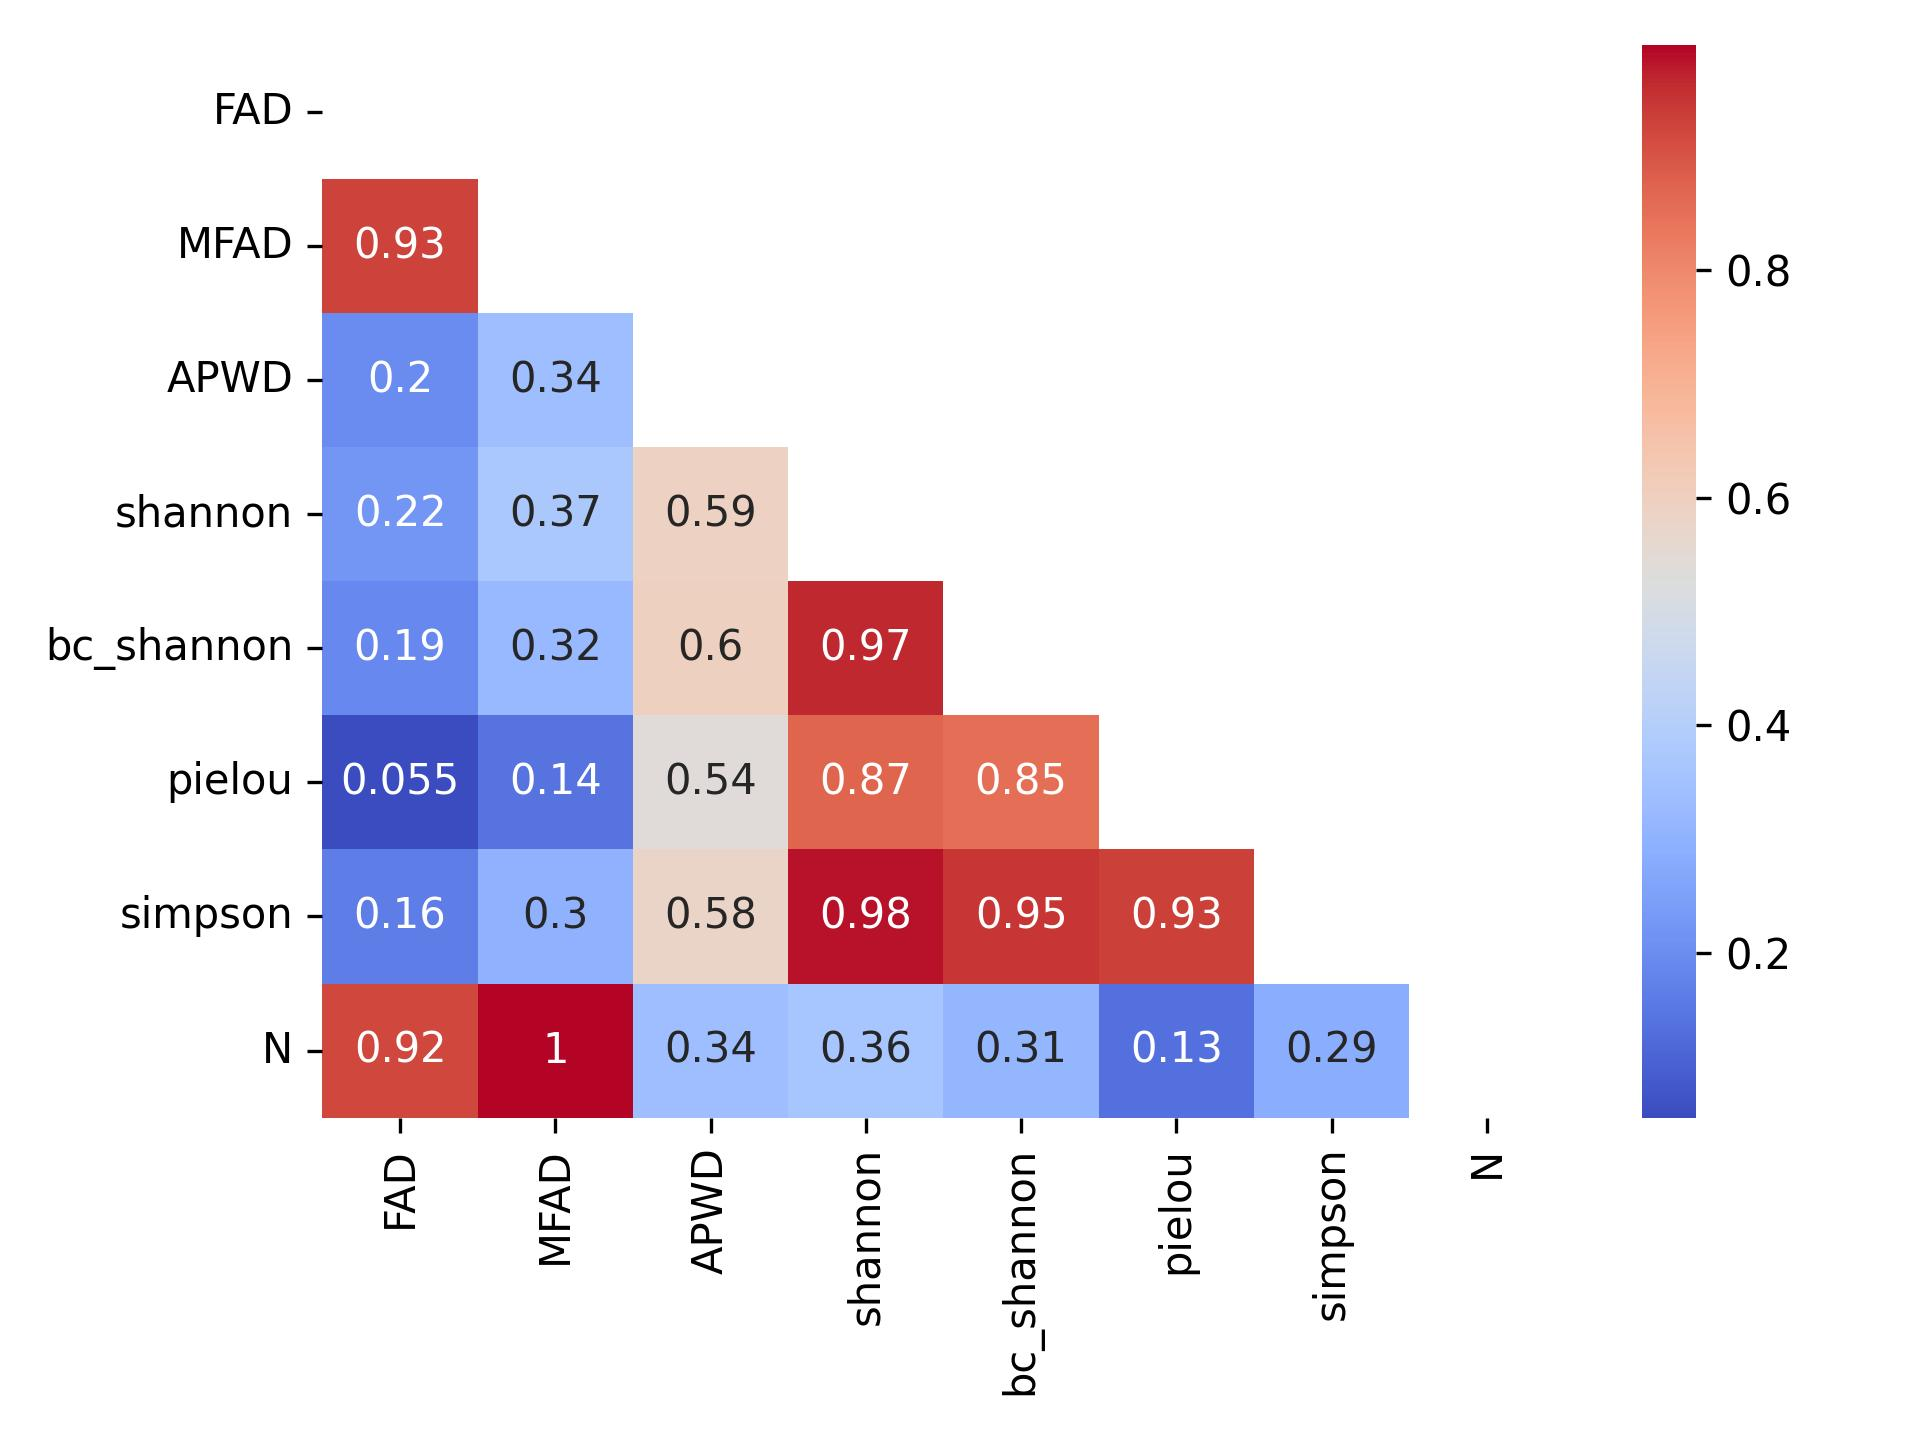
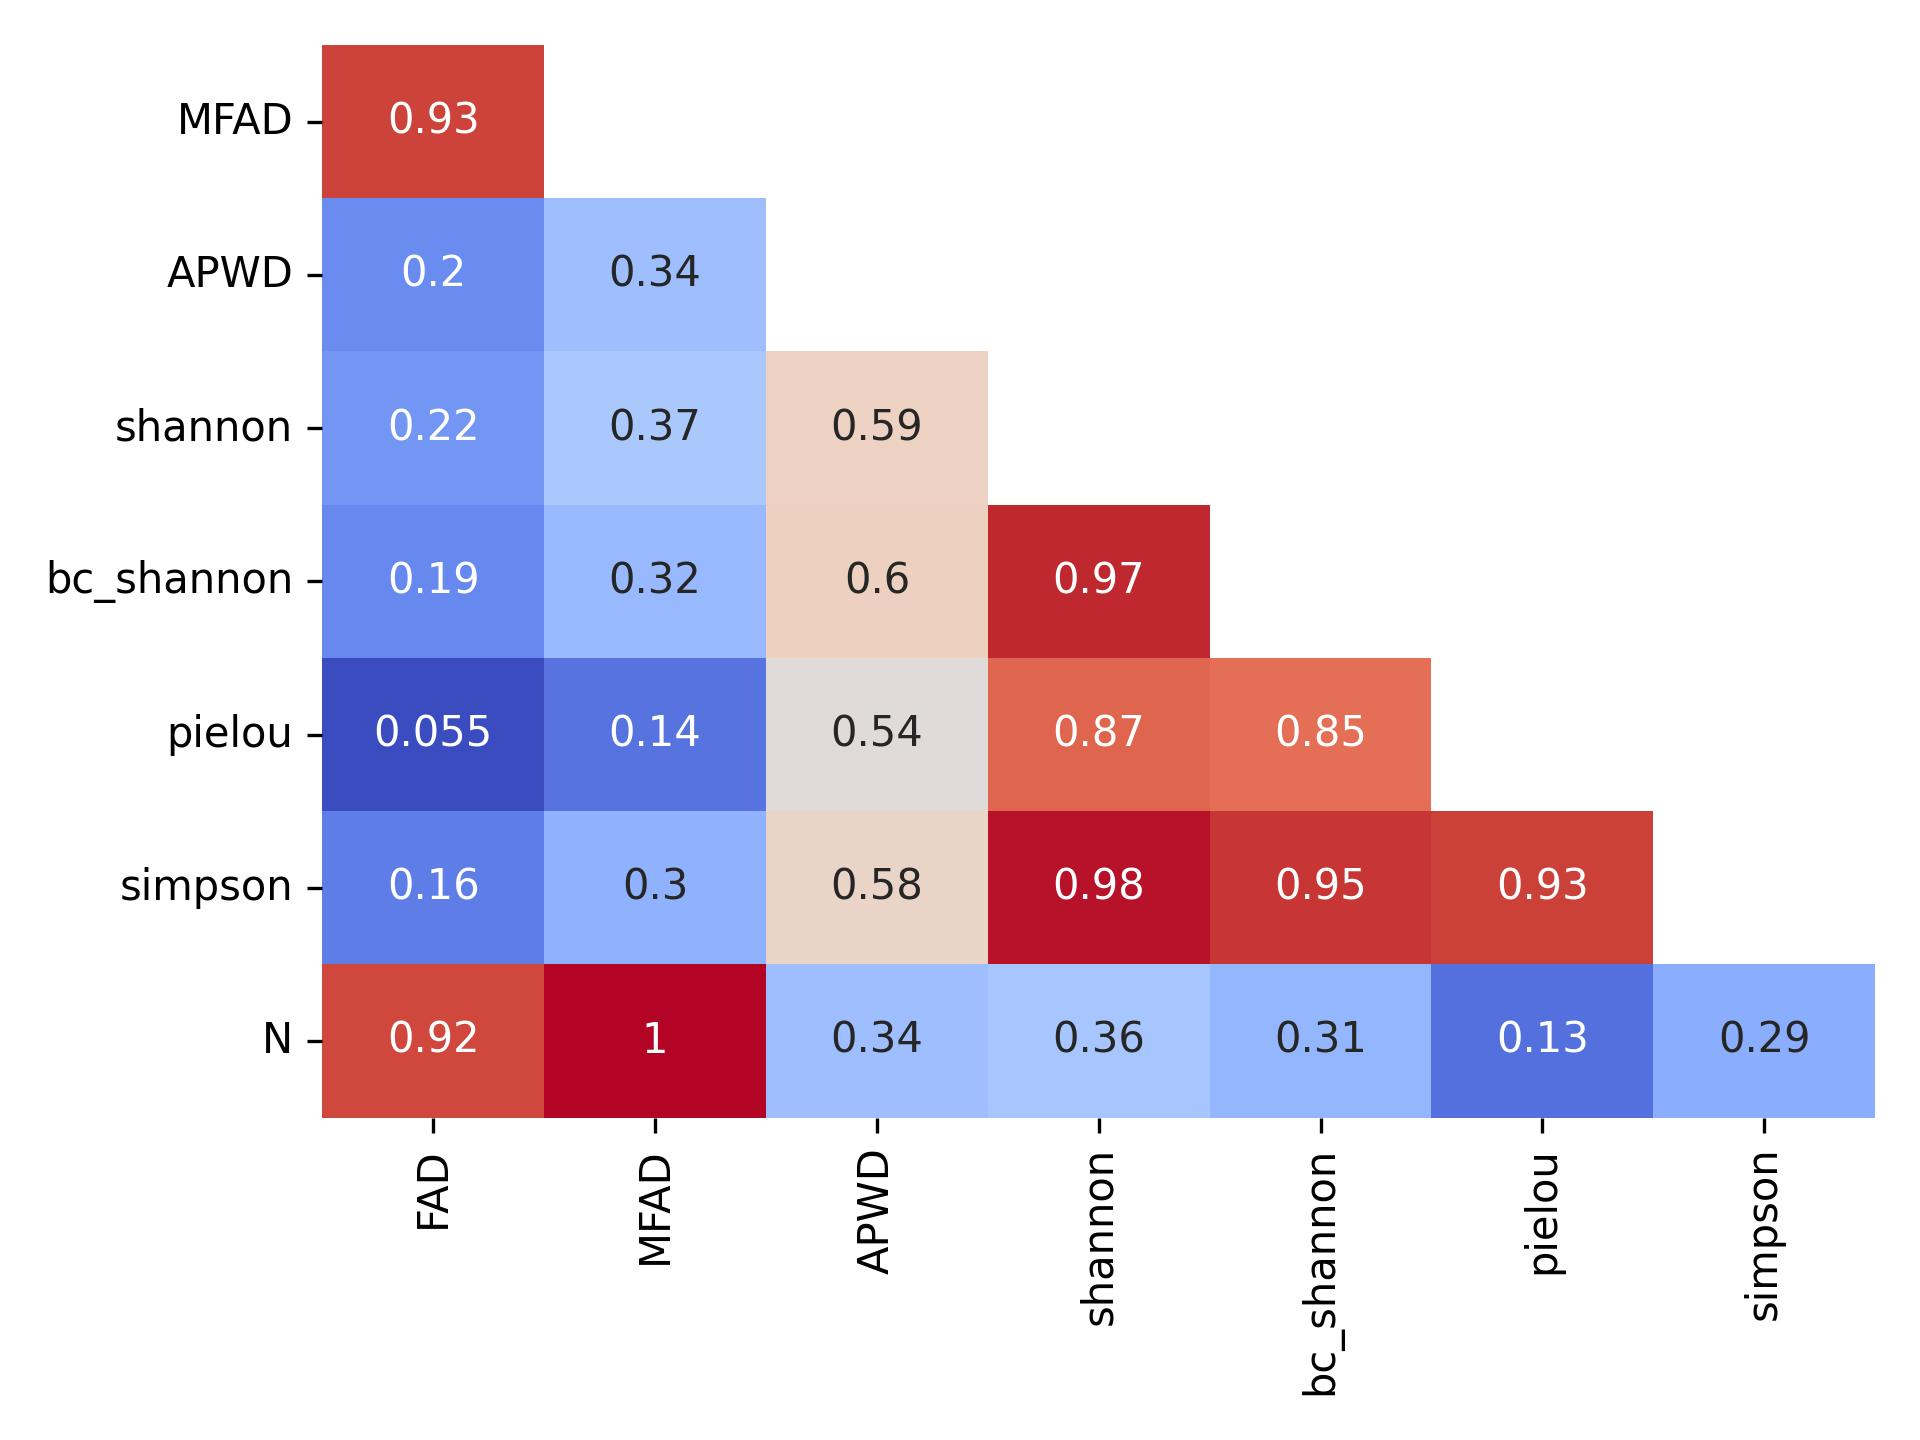
Improve plot

diff --git a/metric_analysis/correlations.py b/metric_analysis/correlations.py
@@ -25,9 +25,16 @@ def both():
     corr_df.to_csv(os.path.join('outputs', 'correlations.csv'))
     # plot the heatmap
 
+
+    corr_df = corr_df.drop(columns=['N'])
+    corr_df = corr_df.drop('FAD')
     # Getting the Upper Triangle of the co-relation matrix
-    matrix = np.triu(corr_df)
-    seaborn.heatmap(corr_df, cmap='coolwarm', annot=True, mask=matrix)
+    mask = np.zeros_like(corr_df)
+    mask[np.triu_indices_from(mask)] = True
+
+    # Want diagonal elements as well
+    mask[np.diag_indices_from(mask)] = False
+    seaborn.heatmap(corr_df, cmap='coolwarm', annot=True, mask=mask, cbar=False)
     plt.tight_layout()
     plt.savefig(os.path.join('outputs', 'diversity_heatmap.jpg'), dpi=300)
     plt.close()
@@ -61,8 +68,7 @@ def both():
 
 
 def main():
-    # abundance_measures()
-    # distance_measures()
+
     both()
 
 
